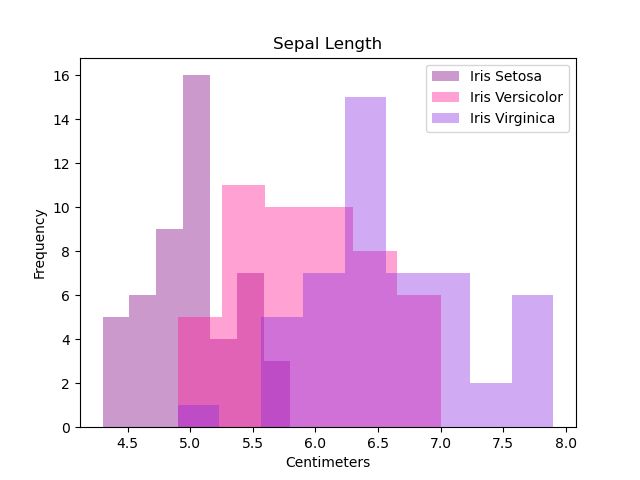
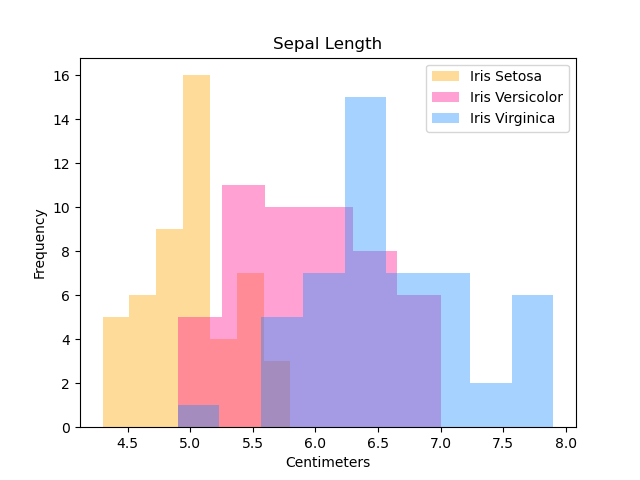
Updated colours to make graphs easier to read

Changed region(s): [[0.1562, 0.1562, 0.875, 0.9062], [0.6562, 0.125, 0.7188, 0.1875], [0.6562, 0.2188, 0.7188, 0.2812]]

diff --git a/analysis.py b/analysis.py
@@ -47,9 +47,9 @@ irisVirginica = data[data.Species == "Iris-virginica"]
 #Colour names for histograms: https://stackoverflow.com/questions/22408237/named-colors-in-matplotlib
 
 #Histogram for Sepal Length in CM
-sns.distplot(irisSetosa['sepalLenghtCm'], kde = False, label = 'Iris Setosa', color = 'purple')
+sns.distplot(irisSetosa['sepalLenghtCm'], kde = False, label = 'Iris Setosa', color = 'orange')
 sns.distplot(irisVersicolor['sepalLenghtCm'], kde = False, label = 'Iris Versicolor', color = 'deeppink')
-sns.distplot(irisVirginica['sepalLenghtCm'], kde = False, label = 'Iris Virginica', color = 'blueviolet')
+sns.distplot(irisVirginica['sepalLenghtCm'], kde = False, label = 'Iris Virginica', color = 'dodgerblue')
 
 #Didn't use plt.xlim or plt.ylim as it was unnecessary for these histograms
 
@@ -62,9 +62,9 @@ plt.savefig('Sepal Length in CM') #Save file: https://stackoverflow.com/question
 plt.show()
 
 #Histogram for Sepal Width in CM
-sns.distplot(irisSetosa['sepalWidthCm'], kde = False, label = 'Iris Setosa', color = 'purple')
+sns.distplot(irisSetosa['sepalWidthCm'], kde = False, label = 'Iris Setosa', color = 'orange')
 sns.distplot(irisVersicolor['sepalWidthCm'], kde = False, label = 'Iris Versicolor', color = 'deeppink')
-sns.distplot(irisVirginica['sepalWidthCm'], kde = False, label = 'Iris Virginica', color = 'blueviolet')
+sns.distplot(irisVirginica['sepalWidthCm'], kde = False, label = 'Iris Virginica', color = 'dodgerblue')
 
 plt.xlabel ('Centimeters')
 plt.ylabel ('Frequency')
@@ -75,9 +75,9 @@ plt.savefig('Sepal Width in CM')
 plt.show()
 
 #Histogram for Petal Length in CM
-sns.distplot(irisSetosa['petalLengthCm'], kde = False, label = 'Iris Setosa', color = 'purple')
+sns.distplot(irisSetosa['petalLengthCm'], kde = False, label = 'Iris Setosa', color = 'orange')
 sns.distplot(irisVersicolor['petalLengthCm'], kde = False, label = 'Iris Versicolor', color = 'deeppink')
-sns.distplot(irisVirginica['petalLengthCm'], kde = False, label = 'Iris Virginica', color = 'blueviolet')
+sns.distplot(irisVirginica['petalLengthCm'], kde = False, label = 'Iris Virginica', color = 'dodgerblue')
 
 plt.xlabel ('Centimeters')
 plt.ylabel ('Frequency')
@@ -88,9 +88,9 @@ plt.savefig('Petal Length in CM')
 plt.show()
 
 #Histogram for Petal Width in CM
-sns.distplot(irisSetosa['petalWidthCm'], kde = False, label = 'Iris Setosa', color = 'purple')
+sns.distplot(irisSetosa['petalWidthCm'], kde = False, label = 'Iris Setosa', color = 'orange')
 sns.distplot(irisVersicolor['petalWidthCm'], kde = False, label = 'Iris Versicolor', color = 'deeppink')
-sns.distplot(irisVirginica['petalWidthCm'], kde = False, label = 'Iris Virginica', color = 'blueviolet')
+sns.distplot(irisVirginica['petalWidthCm'], kde = False, label = 'Iris Virginica', color = 'dodgerblue')
 
 plt.xlabel ('Centimeters')
 plt.ylabel ('Frequency')
@@ -107,7 +107,7 @@ plt.show()
 #https://seaborn.pydata.org/tutorial/relational.html
 #https://seaborn.pydata.org/generated/seaborn.scatterplot.html#:~:text=scatterplot,-seaborn.&text=Draw%20a%20scatter%20plot%20with%20possibility%20of%20several%20semantic%20groupings.&text=It%20is%20possible%20to%20show,interpret%20and%20is%20often%20ineffective.
 #https://jakevdp.github.io/PythonDataScienceHandbook/04.14-visualization-with-seaborn.html
-sns.scatterplot(x = "sepalLenghtCm", y = "sepalWidthCm", data = data, hue = "Species", palette = ['purple', 'deeppink', 'blueviolet']) # https://www.geeksforgeeks.org/scatterplot-using-seaborn-in-python/
+sns.scatterplot(x = "sepalLenghtCm", y = "sepalWidthCm", data = data, hue = "Species", palette = ['orange', 'deeppink', 'dodgerblue']) # https://www.geeksforgeeks.org/scatterplot-using-seaborn-in-python/
 
 plt.xlabel ('Length in Centimeters') #Labels X-Axis
 plt.ylabel ('Width in Centimeters') #Labels Y-Axis
@@ -119,7 +119,7 @@ plt.savefig('Sepal Scatter Plot')#Saves the graph as a .png
 plt.show()
 
 #Scatter plot for Petal Comparasion
-sns.scatterplot(x = "petalLengthCm", y = "petalWidthCm", data = data, hue = "Species", palette = ['purple', 'deeppink', 'blueviolet']) # https://www.geeksforgeeks.org/scatterplot-using-seaborn-in-python/
+sns.scatterplot(x = "petalLengthCm", y = "petalWidthCm", data = data, hue = "Species", palette = ['orange', 'deeppink', 'dodgerblue']) # https://www.geeksforgeeks.org/scatterplot-using-seaborn-in-python/
 
 plt.xlabel ('Length in Centimeters') 
 plt.ylabel ('Width in Centimeters') 
@@ -131,7 +131,7 @@ plt.savefig('Petal Scatter Plot')
 plt.show()
 
 #Scatter plot for Sepal Length and Petal Length Comparasion
-sns.scatterplot(x = "sepalLenghtCm", y = "petalLengthCm", data = data, hue = "Species", palette = ['purple', 'deeppink', 'blueviolet']) # https://www.geeksforgeeks.org/scatterplot-using-seaborn-in-python/
+sns.scatterplot(x = "sepalLenghtCm", y = "petalLengthCm", data = data, hue = "Species", palette = ['orange', 'deeppink', 'dodgerblue']) # https://www.geeksforgeeks.org/scatterplot-using-seaborn-in-python/
 
 plt.xlabel ('Sepal Length in Centimeters') 
 plt.ylabel ('Petal Length in Centimeters') 
@@ -143,7 +143,7 @@ plt.savefig('Sepal Length and Petal Length Scatter Plot')
 plt.show()
 
 #Scatter plot for Sepal Width and Petal Width Comparasion
-sns.scatterplot(x = "sepalWidthCm", y = "petalWidthCm", data = data, hue = "Species", palette = ['purple', 'deeppink', 'blueviolet']) # https://www.geeksforgeeks.org/scatterplot-using-seaborn-in-python/
+sns.scatterplot(x = "sepalWidthCm", y = "petalWidthCm", data = data, hue = "Species", palette = ['orange', 'deeppink', 'dodgerblue']) # https://www.geeksforgeeks.org/scatterplot-using-seaborn-in-python/
 
 plt.xlabel ('Sepal Width in Centimeters') 
 plt.ylabel ('Petal Width in Centimeters') 
@@ -156,6 +156,6 @@ plt.show()
 
 #Pairplot for Sepal and Petal Comparasion
 #Used pairplot to represent multidenminsional relationship between Sepal Lenght, Sepal Width, Petal Length, Petal Width, and their respective speies: https://jakevdp.github.io/PythonDataScienceHandbook/04.14-visualization-with-seaborn.html
-sns.pairplot(data, hue = 'Species', palette = ['purple', 'deeppink', 'blueviolet'])
+sns.pairplot(data, hue = 'Species', palette = ['orange', 'deeppink', 'dodgerblue'])
 plt.savefig('Iris Pairplot') 
 plt.show()

diff --git a/README.md b/README.md
@@ -81,12 +81,12 @@
       </ul>
       <ul>
         <li><a href="#pairplot">Pairplot</a></li>
+       </ul>
+    </li>
       </ul>
-    <li><a href="#contributing">Contributing</a></li>
-    <li><a href="#license">License</a></li>
-    <li><a href="#contact">Contact</a></li>
-    <li><a href="#acknowledgements">Acknowledgements</a></li>
+    </li>
     <li><a href="#references">References</a></li>
+    <ul>
   </ol>
 </details>
 
@@ -172,11 +172,11 @@ Defined the species using the data variable and selecting the column "Species" f
 ```
 Used the built in function Seaborn to make the histograms using the inforamtion from the dataset.
 
-The displot function pulls the information from various named columns in the dataset. The histograms are layered on top of each other. This is done by making a histogram of one variable then adding hte next historgram to an existing plot.  
+The displot function pulls the information from various named columns in the dataset. The histograms are layered on top of each other. This is done by making a histogram of one variable then adding hte next historgram to an existing plot. _kde_ was set to False as it worked better for this plot. 
 ```sh
-    sns.distplot(irisSetosa['sepalLenghtCm'], kde = False, label = 'Iris Setosa', color = 'purple')
+    sns.distplot(irisSetosa['sepalLenghtCm'], kde = False, label = 'Iris Setosa', color = 'orange')
     sns.distplot(irisVersicolor['sepalLenghtCm'], kde = False, label = 'Iris Versicolor', color = 'deeppink')
-    sns.distplot(irisVirginica['sepalLenghtCm'], kde = False, label = 'Iris Virginica', color = 'blueviolet')
+    sns.distplot(irisVirginica['sepalLenghtCm'], kde = False, label = 'Iris Virginica', color = 'dodgerblue')
 ```
 Labled the X-Axis and Y-Axis respectively and added a title to the histogram.
 ```sh
@@ -209,7 +209,7 @@ This process is repeated for each histogram with the variables changed.
 Used Seaborn to create scatter plots. In this case, the X-Axis is the Sepal Length in Centimeters and the Y-Axis is Sepal Width in Centimeters, data is taken from the .csv file, hue is taken from the Species column in the .csv file.
 
 ```sh
-    sns.scatterplot(x = "sepalLenghtCm", y = "sepalWidthCm", data = data, hue = "Species", palette = ['purple', 'deeppink', 'blueviolet']) 
+    sns.scatterplot(x = "sepalLenghtCm", y = "sepalWidthCm", data = data, hue = "Species", palette = ['orange', 'deeppink', 'dodgerblue']) 
 ```
 Next, the X-Axis and Y-Axis were labled and the scatter plot was titled.
 
@@ -231,14 +231,18 @@ This process was repeated for the Petal Comparasion scatter plot.
 
 ![Petal Scatter Plot](https://github.com/sarah-fitzgerald/pands-project-2021/blob/17ddd734dca97ba34af52dcee3160b8ad3cce094/Petal%20Scatter%20Plot.png)
 
+![Sepal Length and Petal Length Scatter Plot](https://github.com/sarah-fitzgerald/pands-project-2021/blob/e7383b138bfddccf8f3a3dcaa9353e86874327fa/Sepal%20Length%20and%20Petal%20Length%20Scatter%20Plot.png)
+
+![Sepal Width and Petal Width Scatter Plot](https://github.com/sarah-fitzgerald/pands-project-2021/blob/e7383b138bfddccf8f3a3dcaa9353e86874327fa/Sepal%20Width%20and%20Petal%20Width%20Scatter%20Plot.png)
+
 <!-- Pairplot -->
 # Pairplot 
 ## Pairplot Code
 
-Decided to use a pairplot to the represent multidimensional relationships between Sepal Lenght, Sepal Width, Petal Lenght, Petal Width for each species. After which, the pair plot is saved.
+Decided to use a pairplot to the represent multidimensional relationships between Sepal Lenght, Sepal Width, Petal Lenght, Petal Width for each species as it shows varied information 
 
 ```sh
-    sns.pairplot(data, hue = 'Species', palette = ['purple', 'deeppink', 'blueviolet'])
+    sns.pairplot(data, hue = 'Species', palette = ['orange', 'deeppink', 'dodgerblue'])
     plt.title ('Iris Pairplot') 
     plt.savefig('Iris Pairplot') 
     plt.show()
@@ -248,42 +252,6 @@ Decided to use a pairplot to the represent multidimensional relationships betwee
 ## Pairplot
 
 ![Iris Pairplot](https://github.com/sarah-fitzgerald/pands-project-2021/blob/17ddd734dca97ba34af52dcee3160b8ad3cce094/Petal%20Paitplot.png)
-
-<!-- CONTRIBUTING -->
-## Contributing
-
-Contributions are what make the open source community such an amazing place to be learn, inspire, and create. Any contributions you make are **greatly appreciated**.
-
-1. Fork the Project
-2. Create your Feature Branch (`git checkout -b feature/AmazingFeature`)
-3. Commit your Changes (`git commit -m 'Add some AmazingFeature'`)
-4. Push to the Branch (`git push origin feature/AmazingFeature`)
-5. Open a Pull Request
-
-
-
-<!-- LICENSE -->
-## License
-
-Distributed under the MIT License. See `LICENSE` for more information.
-
-
-
-<!-- CONTACT -->
-## Contact
-
-Your Name - [@twitter_handle](https://twitter.com/twitter_handle) - email
-
-Project Link: [https://github.com/github_username/repo_name](https://github.com/github_username/repo_name)
-
-
-
-<!-- ACKNOWLEDGEMENTS -->
-## Acknowledgements
-
-* []()
-* []()
-* []()
 
 <!-- REFERENCES -->
 ## References:
